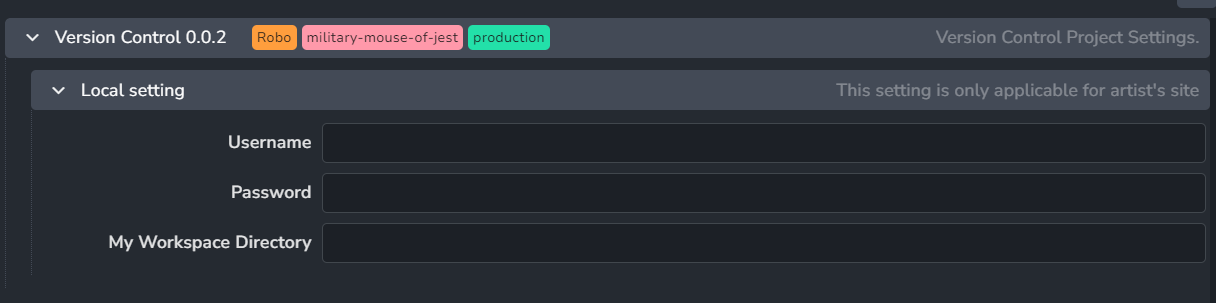
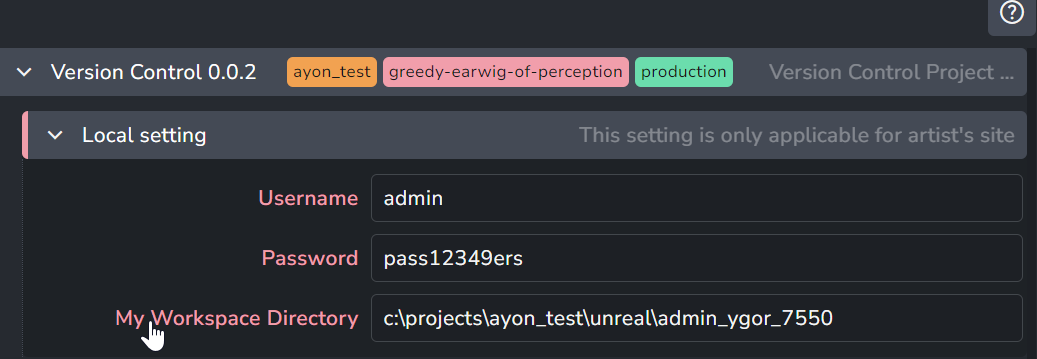
move perforce docs from unreal to version control docs

diff --git a/website/docs/addon_version_control_artist.md b/website/docs/addon_version_control_artist.md
@@ -16,24 +16,27 @@ Currently, the addon implements basic Perforce support inside of Unreal.
 
 :::info Perforce Workspace
 It is expected that P4 workspaces would be setup and existed on artists machines.
+
+Initial checkout from Perforce should be done by P4V tool. 
 :::
+
+> Settings Location: `ayon+settings://version_control/local_setting?project={project_name}&site={site_id}`
 
 ![](assets/version_control/site_settings_user_credentials.png)
 
-Perforce site settings user name, password and workspace directory.
+You'd need to setup your Perforce site settings: user name, password and path to existing configured Perforce workspace.
 
 ### Launch Unreal with version control enabled
 
-When starting Unreal via AYON Launcher, a pop window will show up before Unreal launch allows you to sync to specific a change list.
 ![](assets/version_control/perforce_changes_viewer.png)
+
+When starting Unreal via AYON Launcher, a pop window will show up before Unreal launch allows you to sync to specific a change list.
+
+Any line with changelist could be selected and synched by `Sync to` button. When synching process finishes, it will be highlighted under the list of changes.
 
 ## How Perforce support works
 
-:::tip
-We assume that you always on the latest change list.
-:::
-
-## Workflows
+### Workflow
 
 Perforce doesn't replace regular AYON publishing.
 Because commit changes to perforce and publish to AYON are two separate actions.
@@ -41,38 +44,58 @@ And, you can do both for the same asset!
 
 So for example, you can use AYON to publish assets and use perforce to setup and version control your scene.
 
+Also, AYON will create `changelist_metadata` product by default in your Unreal Scene.
+`changelist_metadata` product highlights the last existing `change list` id at the time of publishing
+This product must be enabled to trigger usage of Perforce on the Deadline.
+Without it Deadline will just render from current state of Unreal project file.
+
+![Unreal AYON Changelist Metadata](assets/version_control/unreal_perforce_changelist_metadata.png)
 
 ### Commit Strategy
 
-| Unreal | Visible in AYON |
-|--|--|
-| commit | |
-| commit | |
-| Publish to AYON | ✅ |
-| commit | |
-| Publish to AYON | ✅ |
+Any manual commits done in Unreal projects via `Unreal editor official Perforce tool` or via `P4V` won't be add to AYON published products.
+Unlike publishing to AYON via AYON publisher will commit to Perforce any uncommitted changes and then publish your work to AYON.
+
+| Inside Unreal | Visible in Perforce | Visible in AYON |
+|--|--|--|
+| commit manually | ✅ | |
+| commit manually | ✅ | |
+| Publish to AYON | ✅ | ✅ |
+| commit manually | ✅ | |
+| Publish to AYON | ✅ | ✅ |
 
 ### `Publish to AYON` Process
 
-When having any workfile changes while workfile instance is enabled, AYON will commit them automatically before publishing.
 
-Publish `change list` info as Json file.
-Publish your files to AYON.
-if you are publishing the same asset that you are pushing to perforce, then AYON publish will be more like taking a snapshot of that asset at a particular `change list` and save it like any other published assets. which makes it available for other DCCs as well.
+- Commit to Perforce any uncommitted changes.
+- Publish `changelist metadata` product as json file.
+- Publish your files to AYON.
+  
+:::info
+If you are publishing the same asset that you are pushing to perforce, then AYON publish will be more like taking a snapshot of that asset at a particular `change list` and save it like any other published assets. which makes it available for other DCCs as well.
+:::
 
 
 ### Deadline
 
+<!-- TODO: This should go to the admin docs.
+We should add here instructions for artist about submitting to deadline while using Perforce, explain how it works
+and how to modify the change list for a particular render.
+
+`changelist_metadata` replaces `workfile` as there are no versioned Unreal projects (because of size).
+ -->
+
 :::info
-Current Deadline implementation requires P4 depots to be of type 'stream' and workspace to be assigned to a stream.
+Current Deadline implementation requires `P4` depots to be of type 'stream' and workspace to be assigned to a stream.
 :::
 
-When having any workfile changes while workfile instance is enabled, AYON will commit them automatically before sending the deadline job.
+Unreal Perforce Deadline Support requires our [custom `UnrealEngine5` deadline plugin](https://github.com/ynput/ayon-deadline/tree/develop/client/ayon_deadline/repository/custom/plugins/UnrealEngine5) which implements `PreLoad` scripts that syncs your project to `change list` id within the `changelist_metadata` before rendering.
 
-<!-- TODO: Answer the following questions
-## FAQ
+Our custom `UnrealEngine5` deadline plugin expects the following environment variables for each Deadline workers:
+- `P4PORT`: Port number that perforce server uses `http://localhost:{Port}`.
+- `P4USER`: Perforce user.
+- `P4PASSWD`: Password of the given user.
 
-### Do the addon support submitting a deadline job with a specific change list number?
-
-
-### What happens when I submit a render, pause it, do some commits in perforce and requeue the render job? -->
+:::tip Setting Environment Variables
+Environment variables could be set locally on the worker or be set on studio or project wise by admin via [application settings](addon_applications_admin.md#applications-definitions).
+:::

diff --git a/website/docs/addon_unreal_artist.md b/website/docs/addon_unreal_artist.md
@@ -615,25 +615,9 @@ These could be modified by AYON admin in `ayon+settings://unreal/render_queue_pa
 
 ![Unreal AYON Render Queue and Settings](assets/unreal_render_queue_and_settings.png)
 
-### Perforce integration
+## AYON Perforce Support
 
-If Perforce integration is enabled by configured `ayon-version-control` addon in the bundle, artists could sync to any previous
-changelist via small dialog that will open before opening Unreal editor.
-
-Artist need to have its Perforce username, password and path to existing configured Perforce workspace configure in `ayon+settings://version_control/local_setting?project=ayon_test&site=XXX-YYY-ZZZ`
-
-![Unreal AYON Local Settings](assets/unreal_perforce_local_settings.png)
-
-Any line with changelist could be selected and synched by `Sync to` button. When synching process finishes, it will be highlighted under the list of changes.
-
-It is expected that commits in Unreal projects will be done inside in Unreal editor official Perforce tool or via `P4V`
-
-![Unreal AYON Changes Viewer](assets/unreal_changes_viewer.png)
-
-Additional automatic instance will be created in Publisher to highlight last existing changelist id. This information will be
-published to AYON server, will be used to Perforce on Deadline to synchronize to that changelist before rendering and might be used in future enhancement of integration.
-
-Name of the instance will start with `changelist_metadata` prefix and instance must be enabled to trigger usage of Perforce on the Deadline.
-(Without it Deadline could render just from current state of Unreal project file.)
-
-![Unreal AYON Changelist Metadata](assets/unreal_perforce_changelist_metadata.png)
+:::tip
+AYON has a dedicated addon for Perforce support.
+Please refer to [Version Control Artist Docs](addon_version_control_artist.md) to learn more.
+:::

diff --git a/website/docs/addon_unreal_admin.md b/website/docs/addon_unreal_admin.md
@@ -65,31 +65,12 @@ Default value could be there as:
 Please notice platform suport with `windows` key (could be also `linux` value).
 
 
-### Perforce support
+## AYON Perforce Support
 
-There is also a Perforce support for rendering on a Deadline. `ayon-version-control` addon needs to be installed and configured for that.
-(Install addon from AYON Marketplace or from https://github.com/ynput/ayon-version-control).
-
-This addon requires configuration in `Studio Settings` where `Perforce` should be selected as `Backend name`, `Host name` and `Port` filled.
-
-Each artist using this integration need to configure their `Local Setting` in `ayon+settings://version_control/local_setting?project=ayon_test&site=XXX-YYY-ZZZ`
-
-![Unreal AYON Local Settings](assets/unreal_perforce_local_settings.png)
-
-It is expected that value in `My Workspace Directory` would be pointing to existing and configured Perforce workspace on artist machine.
-Initial checkout from Perforce should be done by P4V tool. 
-
-AYON Perforce integration handles currently only rendering from P4 on Deadline, commits to Unreal project should be done in P4V or with 
-official Unreal Perforce plugin inside of Unreal editor.
-
-Each Deadline worker for this integration need to have set env vars:
-- P4PORT (`perforce_host:1666`)
-- P4USER
-- P4PASSWD
-
-Again these variables could be set locally on the worker or be controlled by AYON in `ayon+settings://applications/applications/unreal/variants/3/environment`.
-Please make sure you are modifying appropriate `Variant` of Unreal application as this configuration is separate.
-
+:::tip
+AYON has a dedicated addon for Perforce support.
+Please refer to [Version Control Admin Docs](category/version-control) to learn more.
+:::
 
 ## Manually installing Qt bindings
 
